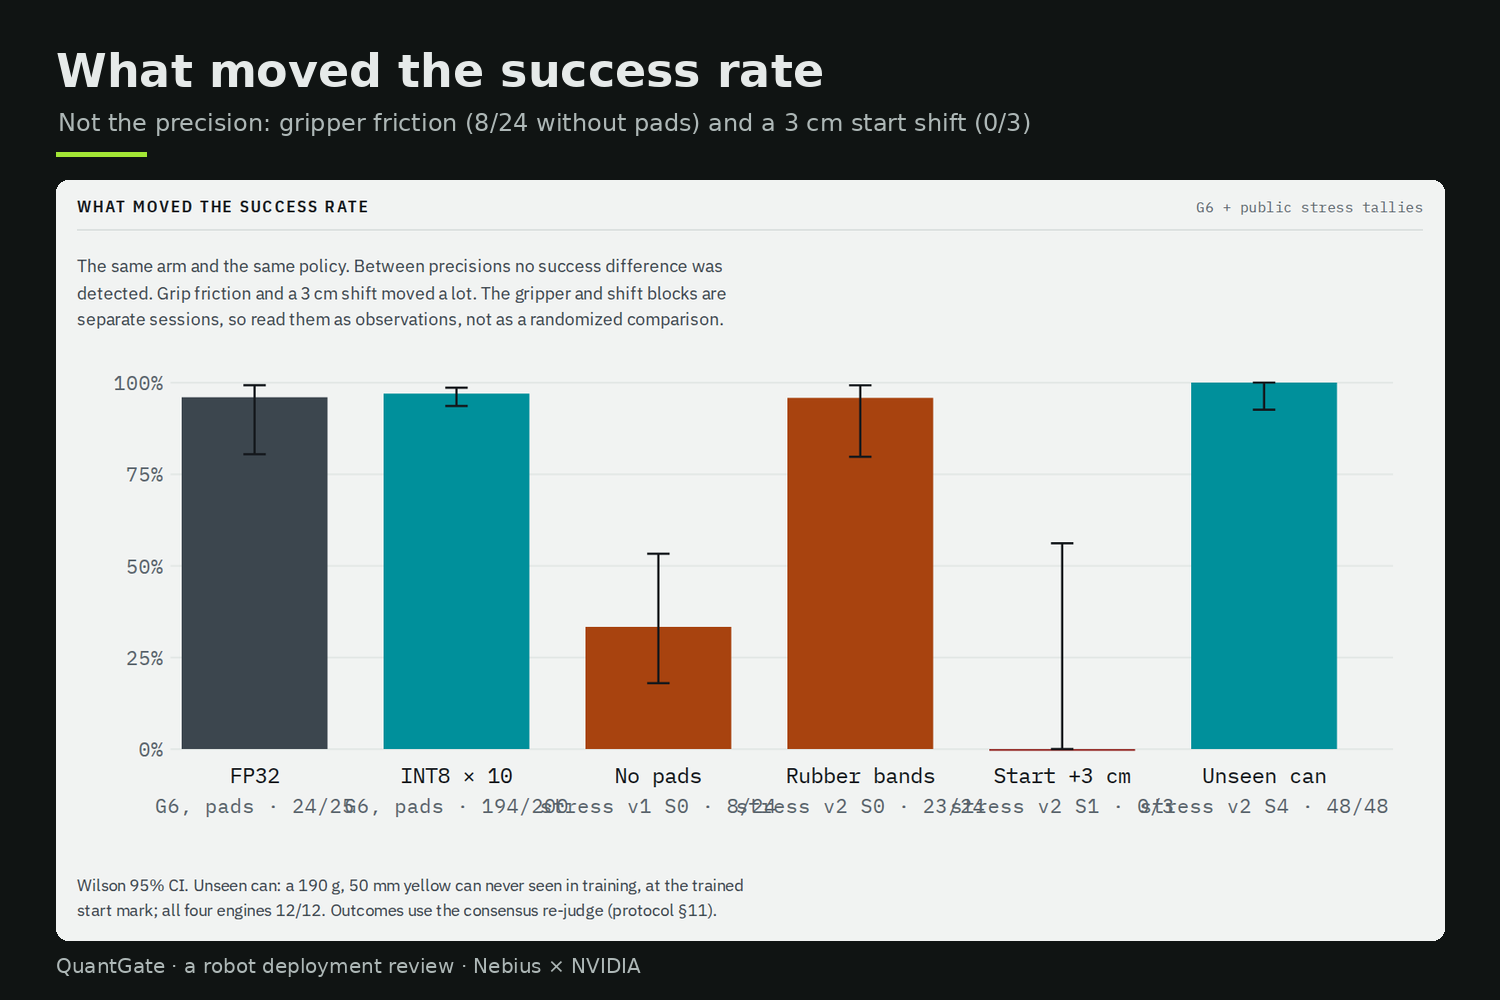
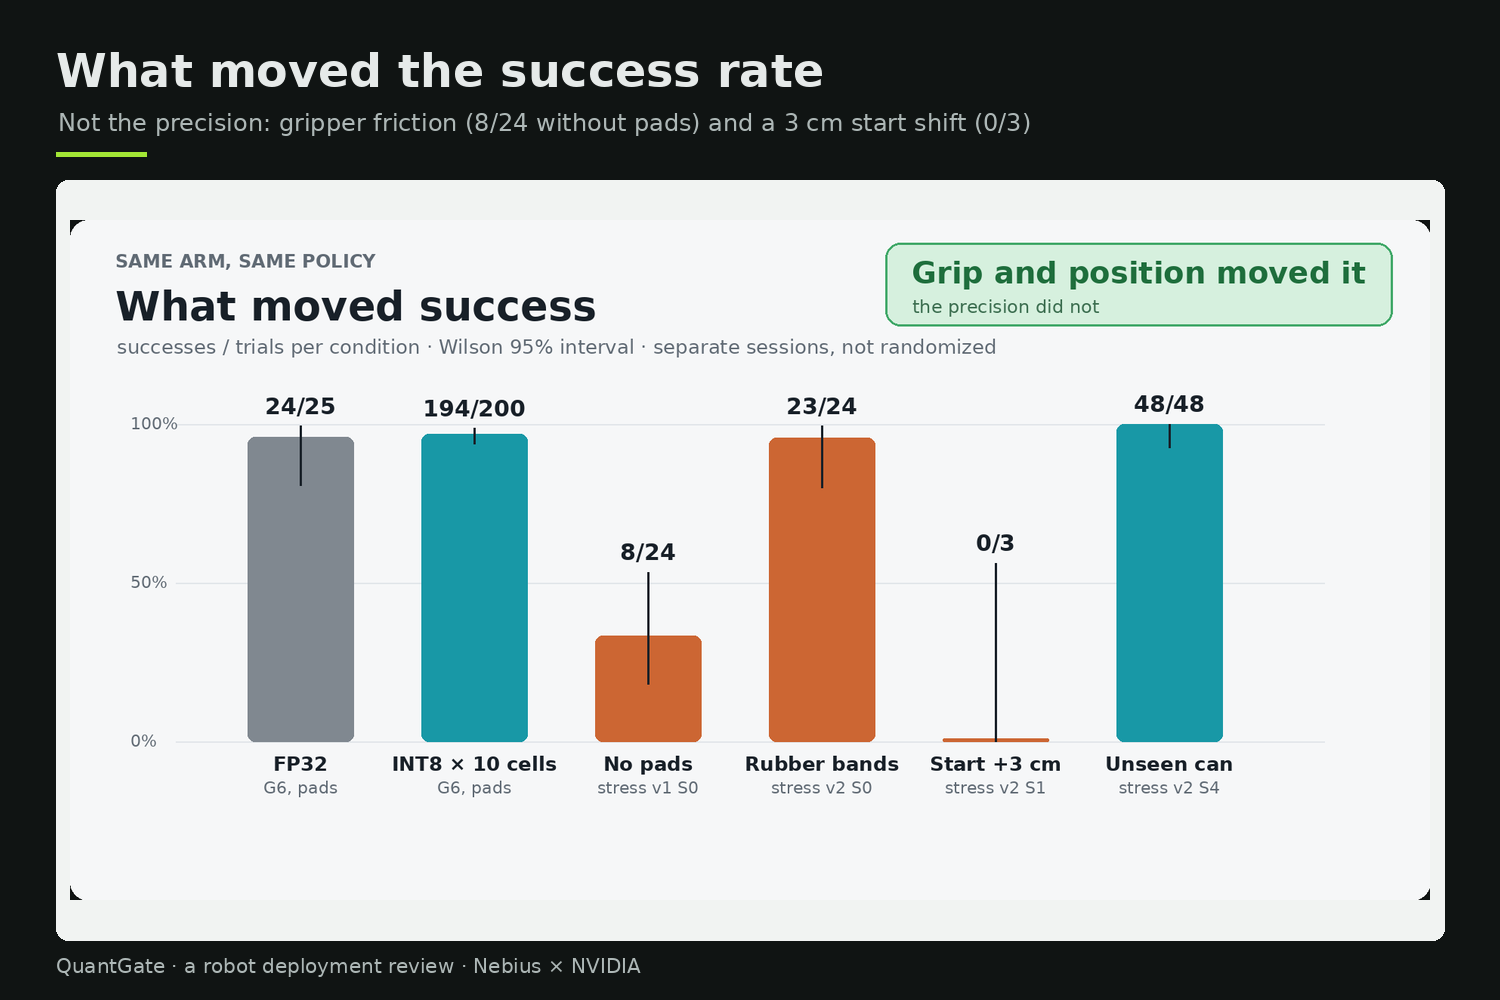
'What moved success' 차트 애니메이션(영상·갤러리, CSV 07), 대시보드 x축 라벨 겹침 해소(2줄), 영상 4K 업스케일 인코딩 옵션(UPSCALE·CRF·PRESET)
Claude-Session: https://claude.ai/code/session_017TFB1HSHLEw1Wug2PYhozg

Changed region(s): [[0.0613, 0.186, 0.9507, 0.837], [0.0307, 0.868, 0.4907, 0.93], [0.0307, 0.186, 0.2453, 0.217]]

diff --git a/dashboard/audit_gate.html b/dashboard/audit_gate.html
@@ -464,7 +464,7 @@ footer{border-top:1px solid var(--rule); padding-top:18px; color:var(--ink-3); f
       a 3 cm shift moved a lot. The gripper and shift blocks are separate sessions, so read them as observations, not
       as a randomized comparison.</p>
     <figure>
-      <div class="fig-scroll"><svg viewBox="0 0 720 270" role="img" aria-label="Success rate by condition" style="min-width:540px"><g id="margin"></g></svg></div>
+      <div class="fig-scroll"><svg viewBox="0 0 720 290" role="img" aria-label="Success rate by condition" style="min-width:540px"><g id="margin"></g></svg></div>
       <figcaption>Wilson 95% CI. Unseen can: a 190 g, 50 mm yellow can never seen in training, at the trained start mark; all four engines 12/12. Outcomes use the consensus re-judge (protocol §11).</figcaption>
     </figure>
   </section>
@@ -631,6 +631,7 @@ bars("mj",[["FP16 VC-025",82,"var(--good)"],["INT8 VC-002",101,"var(--signal)"],
     g.appendChild(mk("line",{x1:x+bw/2,y1:sy(l),x2:x+bw/2,y2:sy(h),stroke:"var(--ink)","stroke-width":1.2}));
     [l,h].forEach(v=>g.appendChild(mk("line",{x1:x+bw/2-6,y1:sy(v),x2:x+bw/2+6,y2:sy(v),stroke:"var(--ink)","stroke-width":1.2})));
     g.appendChild(mk("text",{x:x+bw/2,y:Y0+18,"text-anchor":"middle",class:"lbl"},d[0]));
-    g.appendChild(mk("text",{x:x+bw/2,y:Y0+34,"text-anchor":"middle",class:"ax"},`${d[1]} · ${d[2]}/${d[3]}`));});
+    g.appendChild(mk("text",{x:x+bw/2,y:Y0+34,"text-anchor":"middle",class:"ax"},d[1]));   // two short lines: no overlap between bars
+    g.appendChild(mk("text",{x:x+bw/2,y:Y0+50,"text-anchor":"middle",class:"ax"},`${d[2]}/${d[3]}`));});
 })();
 </script>

diff --git a/scripts/make_video.py b/scripts/make_video.py
@@ -50,7 +50,7 @@ REL = [   # v8 (external review 7): found -> fixed -> still not approved, in the
     ("3", 0.0, 9.6, "chart", ("engine_cost",), None),
     ("3", 9.6, 15.0, "overlay", (f"{C}/v2_rubber_success.mp4", 4.0, 4, "g6_success"), "Real arm (overhead, 4×)"),
     ("3", 15.0, 22.4, "overlay", (f"{C}/g6_success.mp4", 6.0, 4, "audit_vs_random"), "Real arm (overhead, 4×)"),
-    ("4", 0.0, 4.9, "image", (f"{SHOTS}/moved.png",), "What moved the success rate (G6 and stress blocks)"),
+    ("4", 0.0, 4.9, "chart", ("what_moved",), None),
     ("4", 4.9, 8.1, "clip", (f"{E}/yellow_can_2.mp4", 4.0, 1, 0), "Unseen yellow can · block result 48/48 (side view of a demonstration)"),
     ("4", 8.1, 12.7, "clip", (f"{C}/v1_nopad_drop.mp4", 4.0, 4, 0), "Gripper pads removed: the block finished 8/24 (overhead, 4×)"),
     ("4", 12.7, 16.4, "image", (f"{SHOTS}/pos_strip.png",), "50 new demos at −4…+4 cm · fine-tuned 20k steps on Nebius Jobs · ±3 cm held out"),
@@ -191,8 +191,12 @@ def frames_of(seg):
         im = logo()
         for i in range(n): yield im.copy()
 
+# UPSCALE=2: frames are drawn at 1920x1080 and encoded at 3840x2160 (Lanczos). YouTube gives 4K uploads a much higher
+# bitrate, so even 1080p playback is sharper than a 1080p upload; CRF and preset can be set from the environment
+SCALE = int(os.environ.get("UPSCALE", "1"))
 o = av.open(OUT, "w", options={"movflags": "+faststart"}); vs = o.add_stream("libx264", rate=FPS)
-vs.width, vs.height, vs.pix_fmt = W, H, "yuv420p"; vs.options = {"crf": os.environ.get("CRF", "21"), "preset": "medium"}
+vs.width, vs.height, vs.pix_fmt = W * SCALE, H * SCALE, "yuv420p"
+vs.options = {"crf": os.environ.get("CRF", "21"), "preset": os.environ.get("PRESET", "medium"), "profile": "high", "tune": "film"}
 a_in = av.open(f"docs/narration/narration_{NARR}_am_michael.m4a"); as_ = o.add_stream_from_template(a_in.streams.audio[0], opaque=True)
 k = 0
 for seg in SEG:
@@ -200,6 +204,7 @@ for seg in SEG:
         t = k / FPS; d = ImageDraw.Draw(im)
         if seg[4]: chip(d, seg[4])
         if seg[2] not in ("cardfade", "endkick"): subtitle(d, t)   # the card and the kick show the spoken line already
+        if SCALE != 1: im = im.resize((W * SCALE, H * SCALE), Image.LANCZOS)
         for p in vs.encode(av.VideoFrame.from_image(im)): o.mux(p)
         k += 1
     print(f"{seg[0]:6.1f}-{seg[1]:6.1f} {seg[2]:5} frames to {k}", flush=True)

diff --git a/scripts/video_charts.py b/scripts/video_charts.py
@@ -128,4 +128,22 @@ def ft_position(t, dur):
     pill(im, d, "+3 cm 12/12 vs 3/12 · −3 cm 10/12 vs 2/12", "training mark (24 vs 24): still undecided", ramp(t, 3.0, 3.5))
     return im
 
-CHARTS = {"engine_cost": engine_cost, "g6_success": g6_success, "cost_vs_success": cost_vs_success, "audit_vs_random": audit_vs_random, "ft_position": ft_position}
+def what_moved(t, dur):
+    R = rows("07_what_moved.csv")
+    im, d = frame("Same arm, same policy", "What moved success", "successes / trials per condition · Wilson 95% interval · separate sessions, not randomized")
+    n = len(R); gw = 230; x0, y1, hmax = 250, 800, 420
+    for v in (0, 50, 100): yy = y1 - hmax * v / 100; d.line((200, yy, 1720, yy), fill=GRID, width=2); d.text((140, yy - 14), f"{v}%", font=F(22), fill=INK2)
+    col = {"FP32": GREY, "INT8 × 10 cells": TEAL, "Unseen can": TEAL}
+    for i, r in enumerate(R):
+        p = ramp(t, 0.3 + 0.35 * i, 1.0 + 0.35 * i); k, m = int(r["successes"]), int(r["trials"]); cx = x0 + i * gw + gw / 2
+        c = col.get(r["condition"], (204, 102, 51)); hh = hmax * k / m * p
+        if p > 0: d.rounded_rectangle((cx - 70, y1 - max(hh, 4), cx + 70, y1), 10, fill=c)
+        if p >= 0.98:
+            lo, hi = float(r["wilson95_lo_pct"]), float(r["wilson95_hi_pct"]); d.line((cx, y1 - hmax * lo / 100, cx, y1 - hmax * hi / 100), fill=INK, width=3)
+            lab = f"{k}/{m}"; d.text((cx - d.textlength(lab, font=F(30, True)) / 2, y1 - hmax * hi / 100 - 44), lab, font=F(30, True), fill=INK)
+        for j, (txt, f) in enumerate(((r["condition"], F(26, True)), (r["block"], F(22)))):
+            d.text((cx - d.textlength(txt, font=f) / 2, y1 + 14 + j * 34), txt, font=f, fill=INK if j == 0 else INK2)
+    pill(im, d, "Grip and position moved it", "the precision did not", ramp(t, 0.3 + 0.35 * n + 0.4, 0.3 + 0.35 * n + 0.9))
+    return im
+
+CHARTS = {"what_moved": what_moved, "engine_cost": engine_cost, "g6_success": g6_success, "cost_vs_success": cost_vs_success, "audit_vs_random": audit_vs_random, "ft_position": ft_position}

diff --git a/scripts/make_scene_plan.py b/scripts/make_scene_plan.py
@@ -64,6 +64,12 @@ wcsv("06_ai_judge.csv", ["setup", "failures_caught", "failures", "false_alarms",
       ["same prompt, live new fine-tune trials", L["failure_recall"][0], L["failure_recall"][1], L["false_alarm"][0], L["false_alarm"][1]]],
      "Cosmos-Reason2 end-of-trial judge; artifacts/cosmos_judge/eval_scores.jsonl and artifacts/reports/ft_cosmos_live_judge.json")
 
+# 7. what moved the success rate (the dashboard's tallies: G6 main study and the public stress-block tallies)
+MV = [("FP32", "G6, pads", 24, 25), ("INT8 × 10 cells", "G6, pads", 194, 200), ("No pads", "stress v1 S0", 8, 24), ("Rubber bands", "stress v2 S0", 23, 24),
+      ("Start +3 cm", "stress v2 S1", 0, 3), ("Unseen can", "stress v2 S4", 48, 48)]
+wcsv("07_what_moved.csv", ["condition", "block", "successes", "trials", "success_pct", "wilson95_lo_pct", "wilson95_hi_pct"],
+     [[a, b, k, n, round(k / n * 100, 1), *W(k, n)] for a, b, k, n in MV],
+     "G6 main study (g6_analysis.json) and the stress blocks (stress_v1/v2 analyses, consensus re-judge); separate sessions, observations not a randomized comparison")
 open(f"{D}/README.md", "w").write("# Graph data for the video (from committed artifacts)\n\n" + "\n".join(NOTES) + "\n")
 # scene plan
 src = open("scripts/make_video.py").read(); REL = eval(src[src.index("REL = [") + 6: src.index("]\nSEG")] + "]", {"C": "C", "E": "E", "R": "R", "SHOTS": "SHOTS", "T1L": "T1L", "LOGO": "video/assets/quantgate_logo_intro.mp4"})

diff --git a/scripts/make_gallery_v2.py b/scripts/make_gallery_v2.py
@@ -45,7 +45,7 @@ S("05_next_test", "From evidence to the next test", "Pick a candidate: confirmed
   [(Image.open(f"{SHOTS}/nexttest_narrow.png").convert("RGB").crop((0, 0, 1360, 1348)), 56, 180, 690, 760),     # 720 px wide capture, split at
    (Image.open(f"{SHOTS}/nexttest_narrow.png").convert("RGB").crop((0, 1348, 1360, 1956)), 754, 180, 690, 760)])  # the "Next test" heading
 S("12_what_moved", "What moved the success rate", "Not the precision: gripper friction (8/24 without pads) and a 3 cm start shift (0/3)",
-  [(f"{SHOTS}/moved.png", 56, 180, 1388, 760)])
+  [(chart("what_moved", 4.9), 56, 180, 1388, 760)])
 S("03_found_fixed_retested", "Found, fixed, re-tested, still not approved", "+3 cm 12/12 vs 3/12 · −3 cm 10/12 vs 2/12 · the training mark is still undecided, so the review does not approve it",
   [(chart("ft_position", 5.5), 56, 180, 1388, 760)])
 S("13_ai_judge", "AI components are tested too", "Cosmos-Reason2 on a Nebius AI Endpoint: first setup 1/21 → validated 20/21 → live 22/24, 2/72 false alarms",
